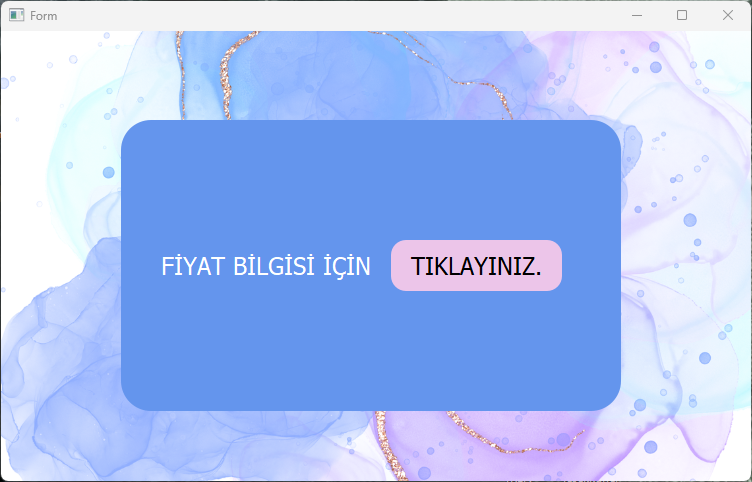
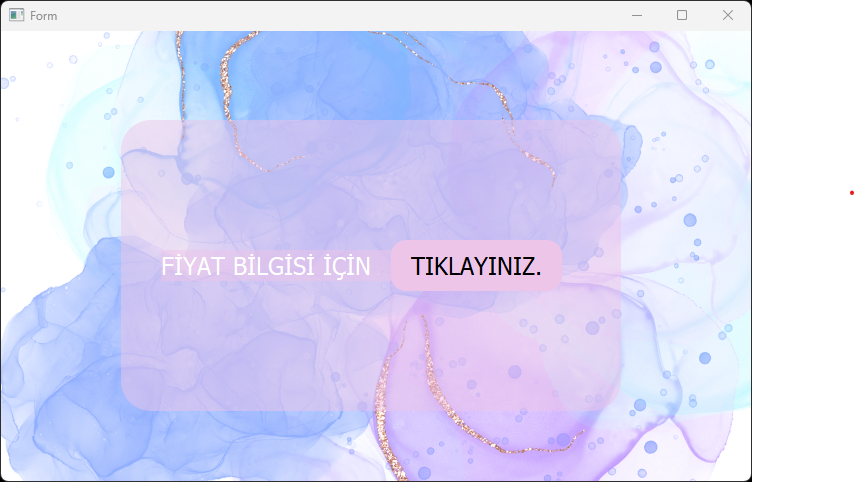
was working to edit and finish the project

diff --git a/main.py b/main.py
@@ -9,8 +9,8 @@
 #########################################################################################################################
 # Step 1: Install required libraries() / you can look for them where information.txt ####################################                      
 # Step 2: Run main.py                                                                ####################################                    
-# Step 3/1: And username = "admin" | ""(empty) and password ="1234" | "" (empty)     ####################################    
-# Step 3/2: You can create new account                                               ####################################      
+# Step 3/1: And username = "admin"and password ="1234"                               ####################################    
+# Step 3/2: Or you can create new account and username/password = your create username and password        ##############                                        ####################################      
 # Step 4: Choose product type                                                        ####################################       
 # Step 5: Choose product color                                                       ####################################      
 # Step 6: Choose product number                                                      ####################################       

diff --git a/pages_ui/create_user.py b/pages_ui/create_user.py
@@ -39,7 +39,7 @@ class Ui_Form_Create_User(object):
 "}\n"
 "QFrame{\n"
 "border-radius:15px;\n"
-"background:#6495ed;\n"
+"background:rgba(236, 197, 233, 0.5);n"
 "}\n"
 "#label_title{\n"
 "background:#ecc5e9;\n"
@@ -69,7 +69,6 @@ class Ui_Form_Create_User(object):
 "#button2{\n"
 "background:transparent;\n"
 "font-size:15px;\n"
-"border: 2px solid #000;\n"
 "border-radius: 15px;\n"
 "}\n"
 "\n"
@@ -103,7 +102,7 @@ class Ui_Form_Create_User(object):
         self.label_title = QtWidgets.QLabel(Form)
         self.label_title.setGeometry(QtCore.QRect(120, 40, 511, 41))
         self.label_title.setObjectName("label_title")
-        self.button2 = QtWidgets.QPushButton("geri", Form)
+        self.button2 = QtWidgets.QPushButton("<--", Form)
         self.button2.setObjectName("button2")
 
         # self.button2.setGeometry(QtCore.QRect(10, 10, 75, 23))
